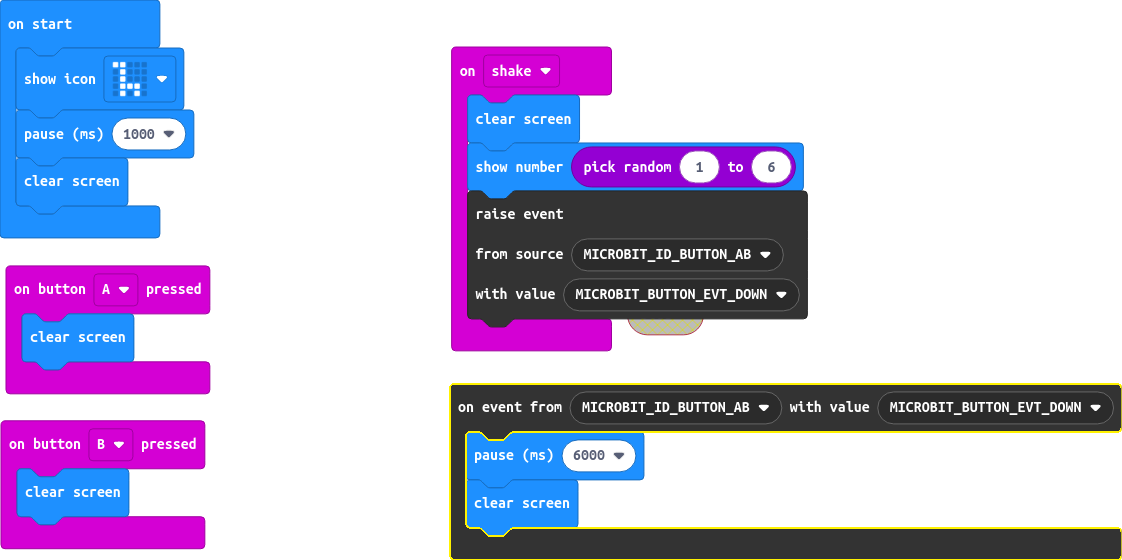
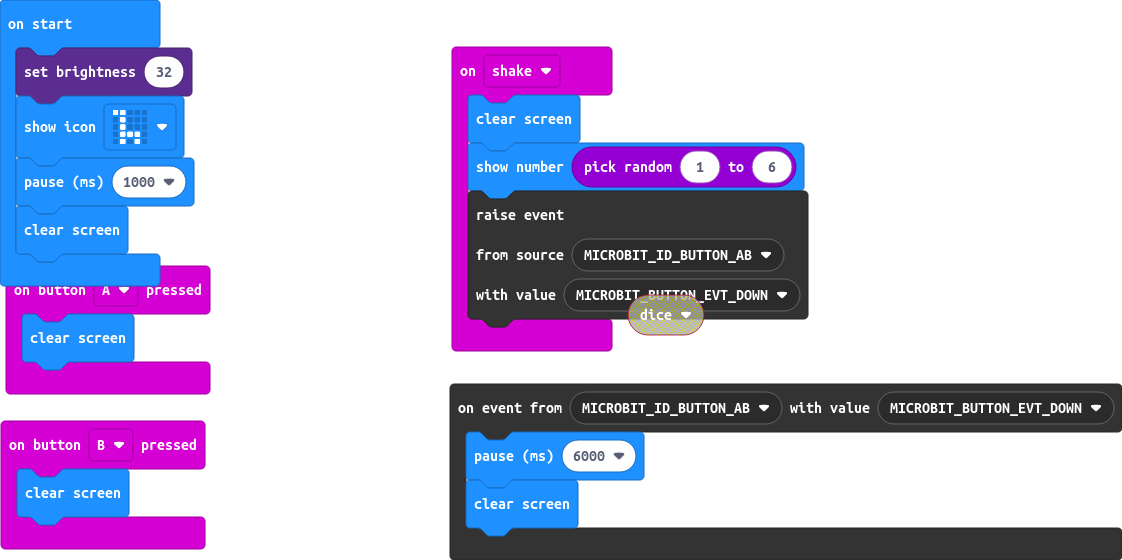
Decrease brightness

diff --git a/main.ts b/main.ts
@@ -16,6 +16,7 @@ input.onGesture(Gesture.Shake, function () {
     EventBusValue.MICROBIT_BUTTON_EVT_DOWN
     )
 })
+led.setBrightness(32)
 basic.showIcon(IconNames.Giraffe)
 basic.pause(1000)
 basic.clearScreen()
